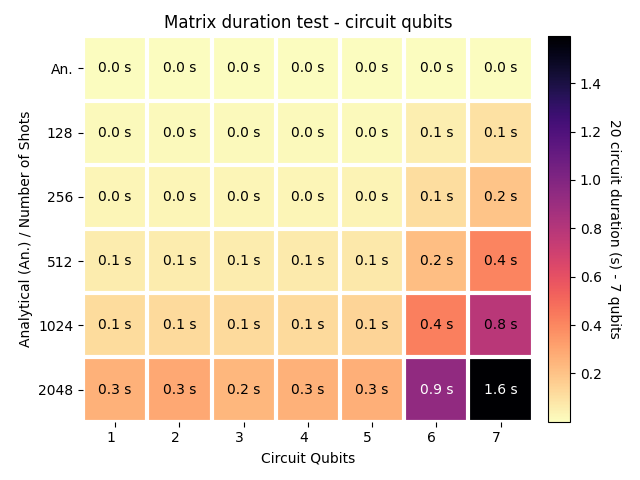
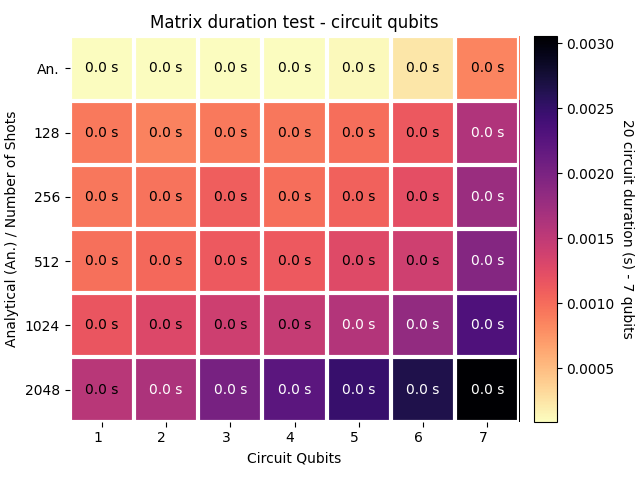
new shot implementation

diff --git a/classes.py b/classes.py
@@ -116,6 +116,9 @@ class duration_qiskit(initialize):
 
     def execute(self, shots):
         result = q.execute(self.qcs, backend=self.backend, shots=shots).result()
+        if shots == None:
+            print(result)
+            print(result.shape, self.qubits)
 
 
 class duration_real(duration_qiskit):
@@ -191,13 +194,13 @@ class duration_matrix(initialize):
 
     def execute(self, shots):
         # keine circuits sondern fertige Matrizen
-        shots = 1 if shots == None else shots
-        for _ in range(shots):
-            for matrix in self.qcs:
-                row_vector = np.zeros(2**self.qubits)
-                row_vector[0] = 1
-                qubit_vector = np.array([row_vector]).T
-                result = np.dot(np.array(matrix), np.array(qubit_vector))
+        for matrix in self.qcs:
+            statevector = np.array(matrix)[:, 0]
+            probabilities = np.abs((statevector) ** 2)
+            if shots == None:
+                result = probabilities
+            else:
+                result = np.random.choice(len(probabilities), shots, p=probabilities)
 
 
 class duration_cirq(initialize):
